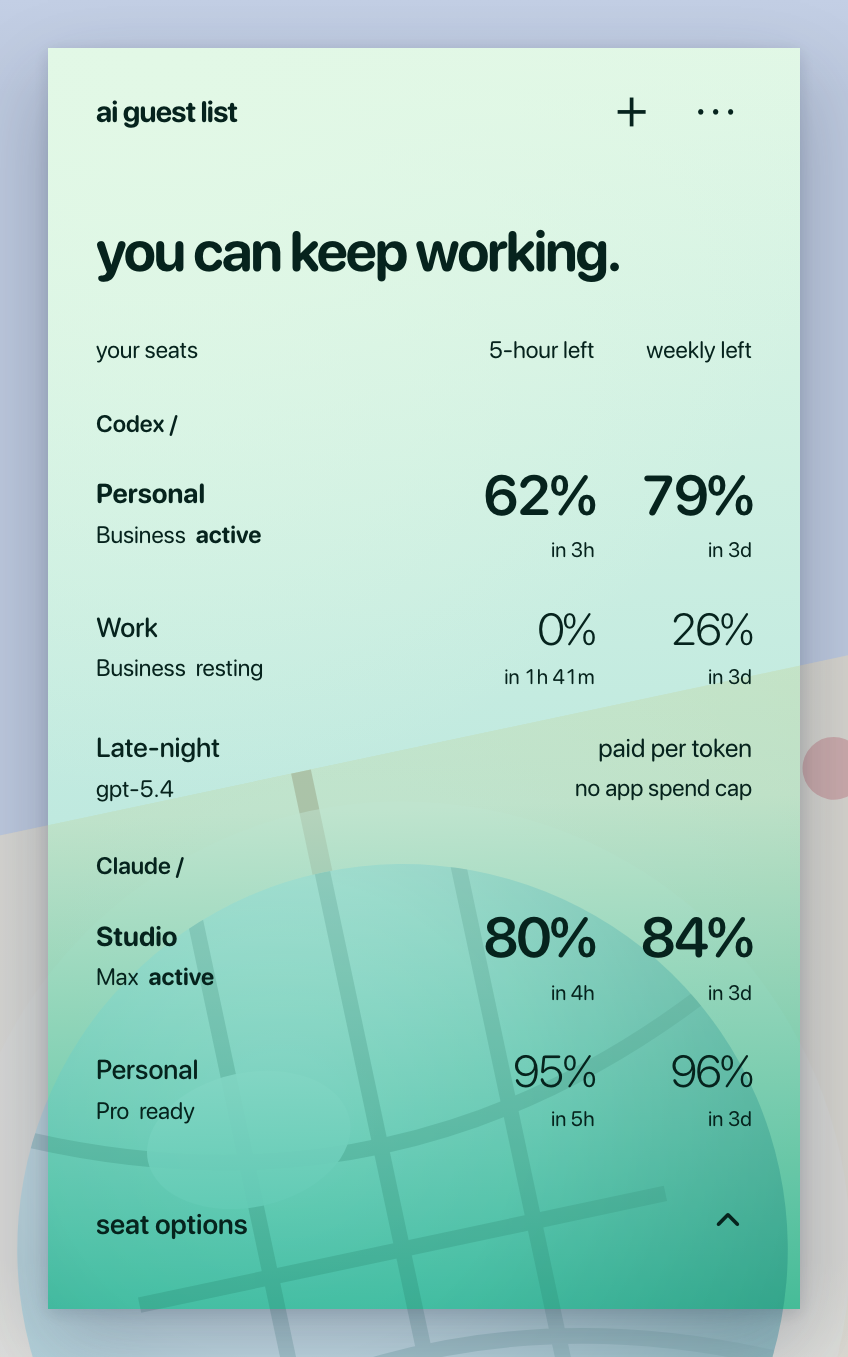
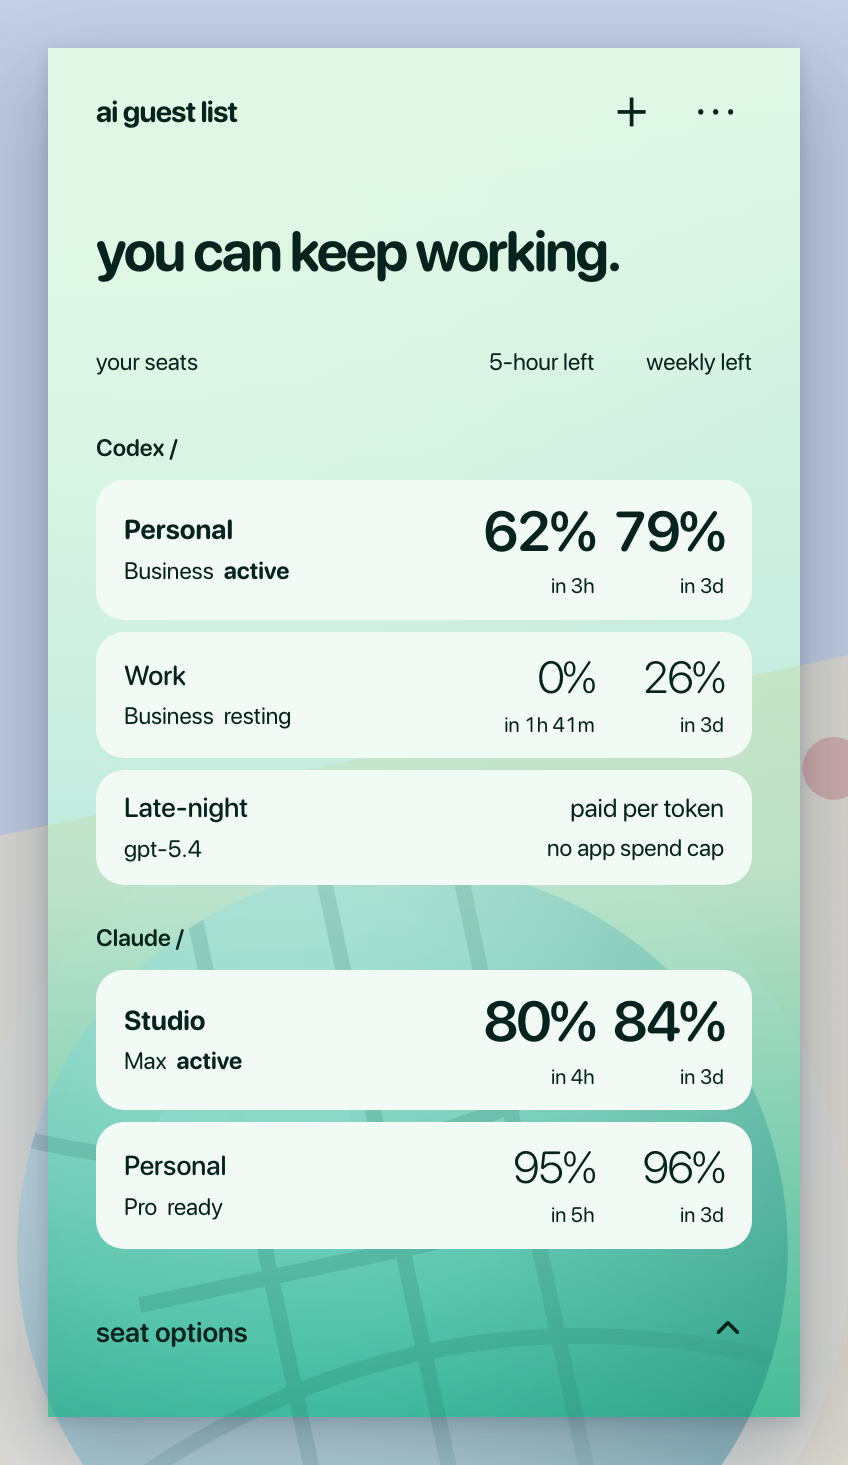
Sit each seat on its own light panel
The roster read as a spreadsheet: rows on the open field, separated only by
spacing. v13-band's bands are what made its seats feel like objects, so the
same idea here — each seat on --surface, rounded, with the tool heading left
on the field between groups.

Cells carry the panel rather than rows, because the tool heading is a rowgroup
th inside the same table and :has() is not safe at the macOS 12 floor the
README promises. The table also had to stop collapsing its borders: a
collapsed table cannot round a cell.

Five seats no longer fit, which is correct rather than a regression — the
roster now genuinely scrolls (521 against a 470 viewport) instead of growing
past the popover and being clipped, and check-layout.py holds that line at
30 of 30.

diff --git a/app/web/styles.css b/app/web/styles.css
@@ -350,7 +350,15 @@ input:focus-visible ~ .sw, .free-control:focus-within, .proof-gate:focus-within 
   overflow-y:auto; overflow-x:hidden; scrollbar-width:thin;
 }
 .roster-glance h1 { margin-bottom:25px; }
-.roster { width:100%; table-layout:fixed; border-collapse:collapse; }
+/* Seat rows sit on their own light panel, the way v13-band's bands did, so the roster reads as
+   discrete seats against the field rather than as a spreadsheet. Separate borders, not collapsed:
+   a collapsed table cannot round its cells. */
+.roster { width:100%; table-layout:fixed; border-collapse:separate; border-spacing:0 6px; }
+/* The tool heading is a rowgroup th and stays on the field; only seat cells get the panel.
+   Selected per cell rather than per row: :has() is not safe at the macOS 12 floor. */
+.roster tbody > tr > :not(.roster-tool) { background:var(--surface); }
+.roster tbody > tr > :not(.roster-tool):first-child { border-radius:14px 0 0 14px; padding-left:14px; }
+.roster tbody > tr > :not(.roster-tool):last-child { border-radius:0 14px 14px 0; padding-right:14px; }
 .roster-seat-col { width:52%; }
 .roster-window-col { width:24%; }
 .roster th, .roster td { border:0; vertical-align:middle; }
